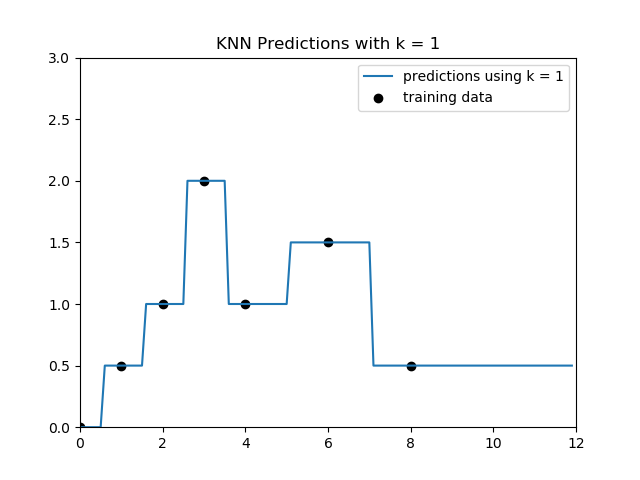
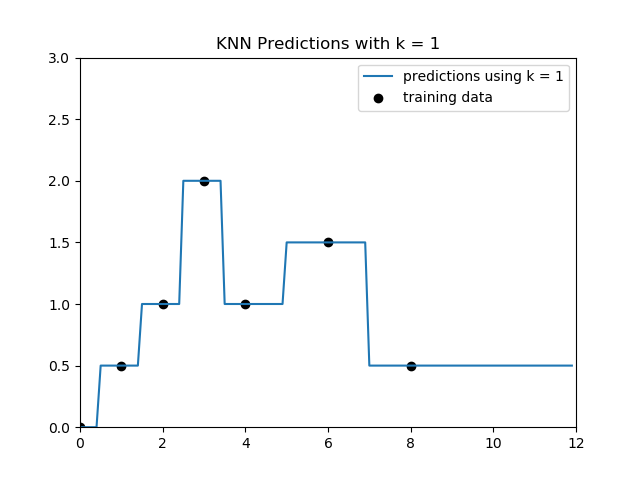
accidentally took a late day so updated stuff rip

diff --git a/HW1/T1_P2.py b/HW1/T1_P2.py
@@ -73,10 +73,17 @@ def predict_knn(k=1, tau=1):
             dist.append([inv_distance, ydata])
 
         # sort from smallest to largest dist, include top k, and predict
-        dist.sort(key=sortFirst, reverse=True)
+        nearest = 0
         predict = 0
-        for i in range(0, k):
-            predict += dist[i][1]
+        while (nearest < k):
+            min = dist[0]
+            for x in dist:
+                if min[0] <= x[0]:
+                    min = x
+            predict += min[1]
+            dist.remove(min)
+            nearest += 1
+
 
         # append the prediction to y_test
         y_test.append(predict / k)
